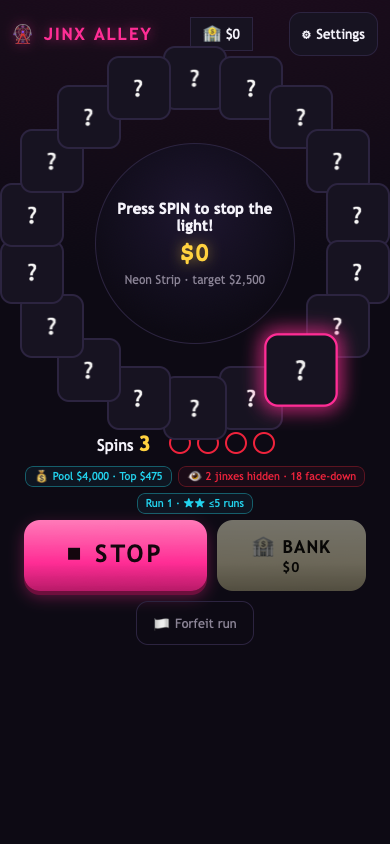
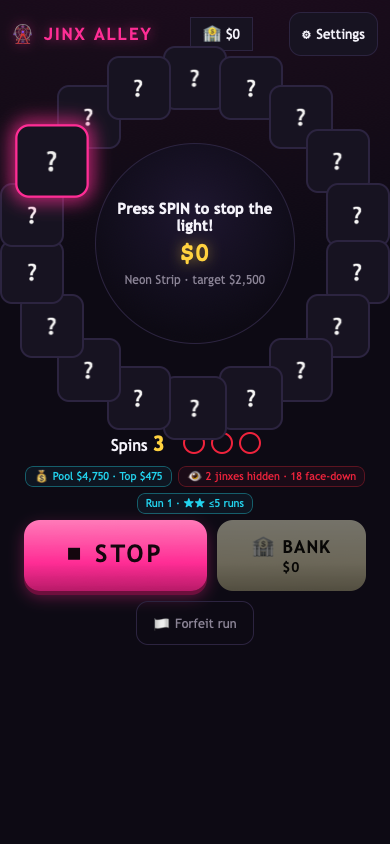
3 Jinxes = bust (strike row now reachable on base spins); gold pulse marks the last tile landed in the end reveal
- MAX_JINXES 4→3: zones start with 3 spins (4 in Jinx's Lair), so a 4-strike
  bust needed +Spin luck and the slot row promised a threat that rarely fired
- Validator bust bands retuned from Monte Carlo measurements (they previously
  demanded probabilities no board could hit, so the validator always fell back
  to its last-dealt board); the validator now genuinely filters
- End-of-run reveal adds .last-landed gold pulse on the tile that ended the run
- HUD strike row now renders MAX_JINXES slots; tutorial/README/at-a-glance
  wording updated; bust tests rewritten for the 3-strike rule

Changed region(s): [[0.2462, 0.3697, 0.9231, 0.5853], [0.0, 0.1232, 0.2769, 0.2773]]

diff --git a/src/ui/game.ts b/src/ui/game.ts
@@ -1,7 +1,7 @@
 /** Game screen: 18-tile DOM ring, sliding-light spin, SPIN/BANK, jinx wipe, consumables. */
 import { generateBoard } from '../engine/board.ts';
 import {
-  anchorRestop, bankPreview, bankRun, createRun, forfeitRun, resolveTile,
+  anchorRestop, bankPreview, bankRun, createRun, forfeitRun, MAX_JINXES, resolveTile,
   type Board, type RunState, type Tile,
 } from '../engine/run.ts';
 import { mulberry32, randomSeed, shuffle } from '../engine/rng.ts';
@@ -43,6 +43,8 @@ export class GameScreen {
   private pool: number;
   private top: number;
   private runNumber: number;
+  /** Board index of the most recent landing — highlighted in the end reveal. */
+  private lastLanded: number | null = null;
   private firstSpin = true;
   private spinning = false;
   private stopRequested = false;
@@ -226,11 +228,13 @@ export class GameScreen {
     this.tileEls[i].innerHTML = '<span class="glyph">❔</span>';
   }
 
-  /** Flip every remaining face-down tile (end-of-run "what could have been"). */
+  /** Flip every remaining face-down tile (end-of-run "what could have been"),
+   *  and mark the last tile landed on so the player sees where the run ended. */
   private revealAll(): void {
     this.run.board.tiles.forEach((_, i) => {
       if (!this.visibleSet.has(i)) this.revealTile(i);
     });
+    if (this.lastLanded !== null) this.tileEls[this.lastLanded].classList.add('last-landed');
   }
 
   /** Jinx risk among currently face-down tiles. */
@@ -245,7 +249,7 @@ export class GameScreen {
     const s = this.run;
     this.elSpinCount.innerHTML = `Spins <b>${s.spinsLeft}</b>`;
     this.elJinxSlots.innerHTML = '';
-    for (let i = 0; i < 4; i++) {
+    for (let i = 0; i < MAX_JINXES; i++) {
       const slot = document.createElement('div');
       slot.className = `jinx-slot${i < s.jinxes ? ' filled' : ''}`;
       this.elJinxSlots.appendChild(slot);
@@ -342,6 +346,7 @@ export class GameScreen {
 
   private async resolveLanding(idx: number): Promise<void> {
     this.revealTile(idx);
+    this.lastLanded = idx;
     const preCash = this.run.cash;
     const ev = resolveTile(this.run, idx);
     const tileEl = this.tileEls[idx];

diff --git a/src/engine/zones.ts b/src/engine/zones.ts
@@ -5,7 +5,9 @@
 import type { UpgradeLevels } from './board.ts';
 
 export const BOARD_SIZE = 18;
-export const MAX_JINXES = 4;
+/** Bust threshold: this many Jinx hits ends the run. Zones start with 3 spins
+ *  (4 in Jinx's Lair), so 3 keeps the strike row reachable on base spins. */
+export const MAX_JINXES = 3;
 export const NUM_ZONES = 4;
 /** Clean-run bonus (§5.1): banking with 0 Jinxes adds +10%. */
 export const CLEAN_RUN_BONUS = 0.1;
@@ -45,17 +47,17 @@ export const ZONES: ZoneDef[] = [
   {
     zone: 2, name: 'Pier Lights', accent: '#22d3ee',
     cashMin: 100, cashMax: 1000, jinxTiles: 3, spinTiles: 2, spinGain: [1, 2],
-    startingSpins: 3, target: 7500, bustMin: 0.1, bustMax: 0.4,
+    startingSpins: 3, target: 7500, bustMin: 0, bustMax: 0.30,
   },
   {
     zone: 3, name: 'High Roller Row', accent: '#ffd23f',
     cashMin: 250, cashMax: 2500, jinxTiles: 4, spinTiles: 1, spinGain: [1, 2, 3],
-    startingSpins: 3, target: 20000, bustMin: 0.25, bustMax: 0.5,
+    startingSpins: 3, target: 20000, bustMin: 0.005, bustMax: 0.40,
   },
   {
     zone: 4, name: "Jinx's Lair", accent: '#ef233c',
     cashMin: 500, cashMax: 5000, jinxTiles: 5, spinTiles: 1, spinGain: [1, 2, 3],
-    startingSpins: 4, target: 50000, bustMin: 0.45, bustMax: 0.6,
+    startingSpins: 4, target: 50000, bustMin: 0.03, bustMax: 0.55,
   },
 ];
 

diff --git a/src/ui/modals.ts b/src/ui/modals.ts
@@ -64,7 +64,7 @@ export function showSettings(ctx: ModalCtx): void {
 
 const TUTORIAL = [
   'Welcome to <b>Jinx Alley</b>! Step the light around the boardwalk wheel. <b>SPIN</b> to land on cash tiles and build your run total. Before each spin the tiles <b>shift and flip back down</b> — every landing is a fresh read.',
-  'Beware the <b>JINX</b> tiles — landing on one wipes your run total to <b>$0</b>. Four Jinxes and the run is busted!',
+  'Beware the <b>JINX</b> tiles — landing on one wipes your run total to <b>$0</b>. Three Jinxes and the run is busted!',
   'Hit <b>BANK</b> anytime to lock your total into the campaign bank — safe forever. Run out of spins and you auto-bank.',
   'Bank with <b>0 Jinxes</b> for a <b>+10% clean-run bonus</b>. Bank above the zone target and the excess pays <b>×1.5</b>.',
   'Spend banked cash in the <b>Shop</b>: permanent board upgrades and one-run protections like <b>Jinx Insurance</b>, <b>Peek Lens</b>, and <b>Spin Anchor</b>. Clear all 4 zones!',

diff --git a/src/engine/validator.ts b/src/engine/validator.ts
@@ -12,7 +12,7 @@ export interface BustSimResult {
 /**
  * Simulate one run with the validation policy from spec §4.1:
  * spin until the run total reaches the zone target (then BANK), or until
- * the 4th Jinx (bust) or spins run out (walk away, not a bust).
+ * the busting Jinx hit or spins run out (walk away, not a bust).
  */
 function simulateOnce(board: Board, zone: ZoneDef, rng: () => number): { bust: boolean; payout: number } {
   const state: RunState = createRun(board, zone);
@@ -30,7 +30,7 @@ function simulateOnce(board: Board, zone: ZoneDef, rng: () => number): { bust: b
   };
 }
 
-/** Monte Carlo bust probability: P(4 Jinxes before banking ≥ zone target). */
+/** Monte Carlo bust probability: P(busting Jinx hit before banking ≥ zone target). */
 export function bustProbability(board: Board, zone: ZoneDef, rng: () => number, sims = 500): BustSimResult {
   let busts = 0;
   let payoutTotal = 0;

diff --git a/src/ui/screens.ts b/src/ui/screens.ts
@@ -255,7 +255,7 @@ export function showRunEnd(
   if (clean) rows.push(`<div class="row"><span>Clean run (0 jinxes) +10%</span><span class="gain">+${fmt(afterClean - base)}</span></div>`);
   if (excess > 0) rows.push(`<div class="row"><span>Over target ×${EFFICIENCY_MULTIPLIER} on ${fmt(excess)}</span><span class="gain">+${fmt(Math.round(excess * EFFICIENCY_MULTIPLIER) - excess)}</span></div>`);
   if (busted) {
-    rows.push(`<div class="row"><span>${run.endReason === 'jinxes' ? '4th Jinx — wipe' : 'Forfeit'}</span><span class="loss">$0</span></div>`);
+    rows.push(`<div class="row"><span>${run.endReason === 'jinxes' ? '3rd Jinx — wipe' : 'Forfeit'}</span><span class="loss">$0</span></div>`);
     if (run.peakCash > 0) {
       rows.push(`<div class="row"><span>You peaked at</span><span class="loss">${fmt(run.peakCash)} — wiped</span></div>`);
     }

diff --git a/src/engine/daily.test.ts b/src/engine/daily.test.ts
@@ -2,6 +2,7 @@ import { describe, expect, it } from 'vitest';
 import { dailyBoard, dailyScore, dailyShareText, DAILY_ZONE } from './daily.ts';
 import { dailySeed } from './rng.ts';
 import { bankRun, createRun, resolveTile } from './run.ts';
+import { MAX_JINXES } from './zones.ts';
 
 describe('daily board', () => {
   it('is deterministic for a date', () => {
@@ -29,7 +30,7 @@ describe('daily board', () => {
     bankRun(run);
     expect(dailyScore(run)).toBe(1234);
     const bust = createRun(dailyBoard('2026-08-02'), DAILY_ZONE);
-    for (let i = 0; i < 4; i++) resolveTile(bust, bust.board.tiles.findIndex((t) => t.kind === 'jinx'));
+    for (let i = 0; i < MAX_JINXES; i++) resolveTile(bust, bust.board.tiles.findIndex((t) => t.kind === 'jinx'));
     expect(bust.endReason).toBe('jinxes');
     expect(dailyScore(bust)).toBe(0);
   });

diff --git a/tests/campaign.test.ts b/tests/campaign.test.ts
@@ -80,17 +80,16 @@ describe('campaign meta', () => {
     expect(spendConsumable(c, 'insurance')).toBe(false); // none left
   });
 
-  it('4-jinx bust pays $0 but still counts as a run', () => {
+  it('3-jinx bust pays $0 but still counts as a run', () => {
     const c = newCampaign();
     const s = createRun(
-      board([{ kind: 'spin', amount: 3 }, { kind: 'jinx' }, { kind: 'jinx' }, { kind: 'jinx' }, { kind: 'jinx' }]),
+      board([{ kind: 'spin', amount: 3 }, { kind: 'jinx' }, { kind: 'jinx' }, { kind: 'jinx' }]),
       zone1,
     );
     resolveTile(s, 0); // +3 spins
     resolveTile(s, 1);
     resolveTile(s, 2);
     resolveTile(s, 3);
-    resolveTile(s, 4);
     expect(s.endReason).toBe('jinxes');
     const r = applyRunResult(c, s);
     expect(r.payout).toBe(0);

diff --git a/tests/run.test.ts b/tests/run.test.ts
@@ -47,15 +47,13 @@ describe('run state machine', () => {
     expect(s.over).toBe(false);
   });
 
-  it('4th jinx ends the run with $0 payout', () => {
-    const s = createRun(boardWith([spin(3), jinx, jinx, jinx, jinx]), zone1);
-    resolveTile(s, 0); // +3 spins so the 4th jinx is what ends it
+  it('3rd jinx ends the run with $0 payout', () => {
+    const s = createRun(boardWith([spin(3), jinx, jinx, jinx]), zone1);
+    resolveTile(s, 0); // +3 spins so all 3 jinxes can land
     resolveTile(s, 1);
     resolveTile(s, 2);
     expect(s.over).toBe(false);
     resolveTile(s, 3);
-    expect(s.over).toBe(false);
-    resolveTile(s, 4);
     expect(s.jinxes).toBe(MAX_JINXES);
     expect(s.over).toBe(true);
     expect(s.endReason).toBe('jinxes');

diff --git a/src/ui/style.css b/src/ui/style.css
@@ -120,6 +120,17 @@ button {
   transform: scale(1.2);
   z-index: 2;
 }
+/* Last tile landed on, marked in the end-of-run reveal. */
+.tile.last-landed {
+  border-color: var(--gold);
+  box-shadow: 0 0 18px 5px rgba(255, 210, 63, 0.85);
+  animation: last-landed-pulse 1.2s ease-in-out infinite;
+  z-index: 2;
+}
+@keyframes last-landed-pulse {
+  0%, 100% { transform: scale(1.08); box-shadow: 0 0 10px 3px rgba(255, 210, 63, 0.55); }
+  50% { transform: scale(1.22); box-shadow: 0 0 24px 8px rgba(255, 210, 63, 0.95); }
+}
 
 .board-center {
   position: absolute;

diff --git a/src/engine/run.ts b/src/engine/run.ts
@@ -173,7 +173,7 @@ export function isCleanRun(state: RunState): boolean {
 /**
  * Cash paid into the campaign bank when the run ends (§5.1):
  * - banked or spins-exhausted (auto-bank): the run total
- * - 4th Jinx / forfeit: $0 (total already wiped)
+ * - 3rd Jinx / forfeit: $0 (total already wiped)
  * - clean run (0 Jinxes): +10%
  * - efficiency: single-run bank above the zone target multiplies the excess ×1.5
  */

diff --git a/README.md b/README.md
@@ -1,7 +1,7 @@
 # 🎡 Jinx Alley
 
 A neon-noir press-your-luck PWA. Spin the sliding light around an 18-tile ring,
-build a run total, and BANK before the 4th Jinx wipes it all.
+build a run total, and BANK before the 3rd Jinx wipes it all.
 
 **Play: https://kimmania.github.io/game-jinx-alley/**
 
@@ -20,7 +20,7 @@ build a run total, and BANK before the 4th Jinx wipes it all.
   +Spin refills spins, 👁 Jinx **wipes the run total to $0**.
 - After the first spin, the ring shuffles and landed tiles flip back down
   before each new spin, so you can't time the same tile twice.
-- 4 Jinxes = bust ($0 banked). BANK anytime to lock in the run total.
+- 3 Jinxes = bust ($0 banked). BANK anytime to lock in the run total.
 - Clean run (0 Jinxes): +10%. Banking above the zone target multiplies the excess ×1.5.
 
 ## Develop
